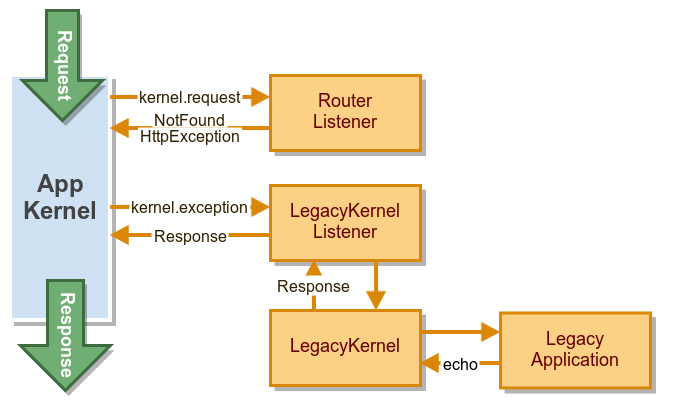
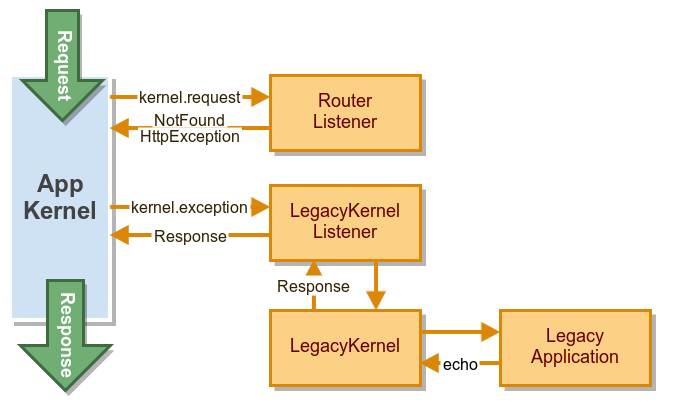
Break diagram to three parts

diff --git a/index.html b/index.html
@@ -226,7 +226,30 @@ class User extends Db
 
                 <section>
                     <h2>Forward non-Symfony routes to legacy</h2>
-                    <img class="fragment" src="img/symfony_legacykernellistener.png" alt="">
+                    <img src="img/symfony_legacykernellistener_1.png" alt="">
+
+                    <aside class="notes">
+                        <ul>
+                            <li>Use Symfony kernel events</li>
+                        </ul>
+                    </aside>
+                </section>
+
+                <section>
+                    <h2>Forward non-Symfony routes to legacy</h2>
+                    <img src="img/symfony_legacykernellistener_2.png" alt="">
+
+                    <aside class="notes">
+                        <ul>
+                            <li>Use Symfony kernel events</li>
+                            <li>LegacyKernel + LegacyKernelListener</li>
+                        </ul>
+                    </aside>
+                </section>
+
+                <section>
+                    <h2>Forward non-Symfony routes to legacy</h2>
+                    <img src="img/symfony_legacykernellistener.png" alt="">
 
                     <aside class="notes">
                         <ul>
